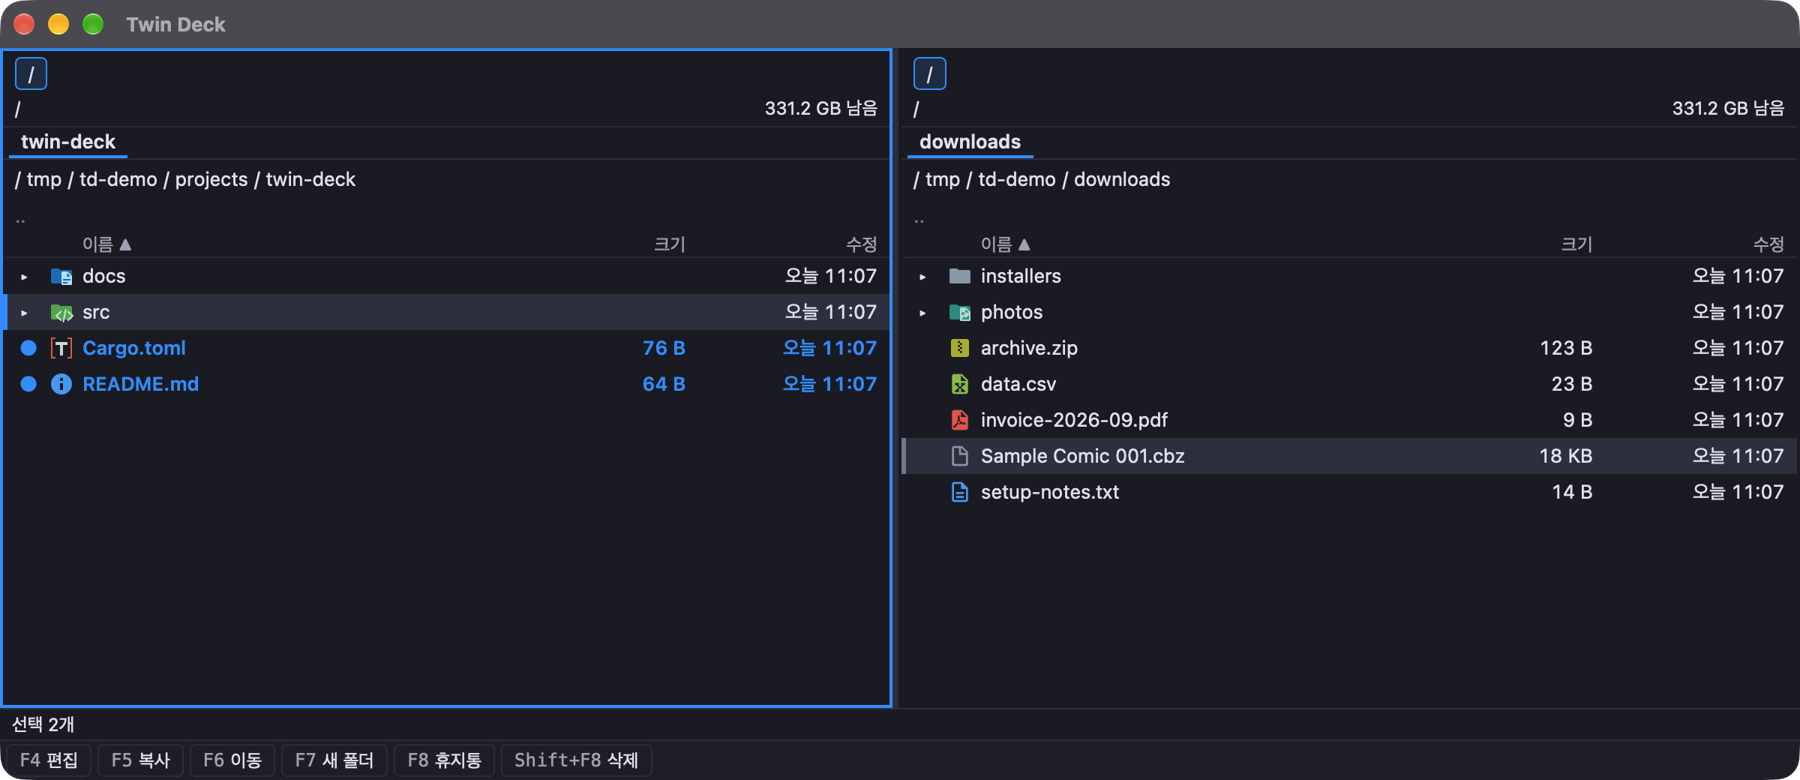
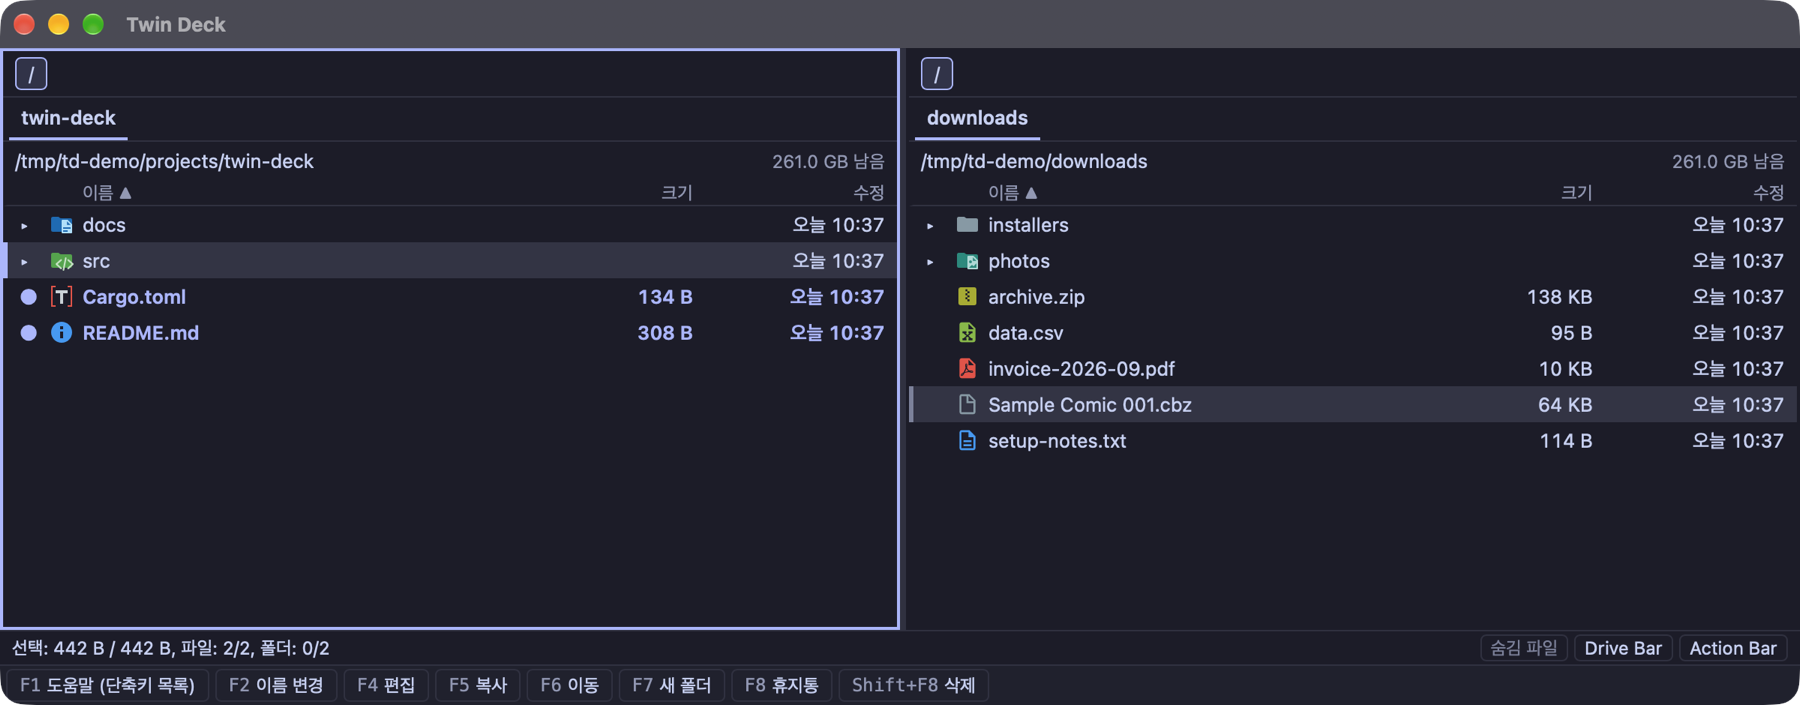
README를 사용자 관점으로 고치고 스크린샷을 새로 찍는다. 배포 내용은 deploy.md로 옮긴다
설치(Homebrew·직접 내려받기·Windows·업데이트), 처음 시작하기, 기능별 사용법 순서로 다시 쓰고
내부 용어를 화면에 보이는 말로 바꿨다. 0.6.0 내용(테마 112개, 탭 가운데 클릭 닫기, q로 나가기,
Office 미리보기 기본 꺼짐)과 Windows 설치 파일을 반영했다.

스크린샷은 main·preview-code·preview-cbz를 새로 찍어 바꾸고 treemap·find·settings·theme-light·
theme-dracula를 더했다. drag-copy는 마우스 입력이 웹뷰에 전달되지 않아 옛 이미지 그대로다.

앱 안 업데이트와 서명 키, 배포 순서와 명령은 deploy.md에 옮겼다. 소스에서 빌드는 Intel Mac과
Linux 사용자의 유일한 설치 경로라 README에 남겼다.

diff --git a/deploy.md b/deploy.md
@@ -1,0 +1,36 @@
+# 배포
+
+Twin Deck의 새 버전을 만들어 GitHub 릴리스에 올리는 방법입니다. 앱을 만드는 사람을 위한 문서이고, 사용하는 사람은 [README](README.md)만 보면 됩니다.
+
+배포 파일은 OS마다 그 OS에서 만듭니다(macOS는 macOS에서, Windows는 Windows에서). 두 OS의 파일을 한 비공개 초안에 모은 뒤, 둘 다 있을 때 공개합니다. 공개하면 태그가 만들어지고 Homebrew tap도 새 버전으로 바뀝니다.
+
+## 배포 순서
+
+1. 버전을 정하고 `CHANGELOG.md`에 그 버전의 항목을 씁니다. 같은 커밋에서 `apps/desktop/src-tauri/tauri.conf.json`과 `apps/desktop/src-tauri/Cargo.toml`(와 `Cargo.lock`)의 `version`을 올리고 push합니다. 변경 사항을 쓰는 방법은 [AGENTS.md](AGENTS.md)의 "릴리스 노트(변경 사항 기록)"에 있습니다.
+2. 각 OS에서 `task release:draft`를 실행합니다. 번들을 만들어 비공개 초안 릴리스에 올립니다. 공개하지 않고 태그도 만들지 않습니다.
+3. 초안에 macOS용과 Windows용 파일이 모두 올라온 뒤 `task release`를 실행합니다. 초안을 공개하고(태그 생성) Homebrew tap의 Cask를 새 버전으로 갱신합니다. 한쪽 OS 파일만 있으면 공개하지 않고 멈춥니다.
+
+```
+CHANGELOG 쓰기 + 버전 올리기 → push → 각 OS에서 task release:draft → task release → 공개 + tap 갱신
+                                                        ↓ macOS·Windows 파일 중 하나라도 없으면
+                                                   공개하지 않고 종료 (코드 3)
+```
+
+공개는 되돌릴 수 없습니다. 공개 흐름의 전체 단계와 실패했을 때 다시 하는 방법은 [AGENTS.md](AGENTS.md)의 "릴리스 공개 흐름"에 있습니다.
+
+## 명령
+
+```sh
+task release:draft  # 드래프트 배포: 이 OS의 파일을 비공개 초안에 올린다(공개·태그 없음. gh 로그인 필요)
+task release        # 배포: 이 OS의 파일을 올리고 공개한다(macOS·Windows 파일이 모두 있을 때만, 태그가 만들어진다)
+```
+
+## 앱 안 업데이트와 서명 키
+
+앱의 "업데이트 확인"(설정 화면 위쪽 버튼, 또는 `Mod+Shift+P`로 연 액션 패널에서 "업데이트")은 GitHub 최신 릴리스의 `latest.json`을 읽어 새 버전이면 설치합니다. 자동으로 확인하지는 않습니다.
+
+- 업데이트 파일은 서명 키로 서명합니다. 키는 한 번 만들어 두세요: `bunx tauri signer generate -w ~/.tauri/twin-deck.key`. 출력되는 **공개 키**는 `apps/desktop/src-tauri/tauri.conf.json`의 `plugins.updater.pubkey`에 들어 있습니다(키를 새로 만들면 이 값도 바꿔야 합니다). **비밀 키와 비밀번호는 저장소에 넣지 마세요.** 비밀 키를 잃으면 이미 설치된 앱은 새 업데이트를 받지 못합니다.
+- 배포 전에 `CHANGELOG.md`에 그 버전의 변경 사항을 적어야 합니다(없으면 `task release:draft`·`task release`가 빌드 전에 멈춥니다). 적은 내용은 GitHub 릴리스 본문과 앱의 "업데이트 확인" 창에 그대로 나옵니다.
+- `task release`로 공개하면 자체 Homebrew tap([gyuha/homebrew-tap](https://github.com/gyuha/homebrew-tap))의 Cask도 새 버전으로 갱신됩니다(`scripts/update-tap.mjs`가 공개 ZIP의 sha256을 GitHub 값과 대조한 뒤 push). 공개는 됐는데 tap 갱신만 실패했다면 `node scripts/update-tap.mjs <버전>`으로 다시 실행하세요(이미 반영돼 있으면 아무것도 바꾸지 않습니다). 흐름은 AGENTS.md의 "릴리스 공개 흐름"에 있습니다.
+- `task release:draft` / `task release`는 `TAURI_SIGNING_PRIVATE_KEY` 환경변수(키 파일 경로 또는 내용. 비밀번호가 있으면 `TAURI_SIGNING_PRIVATE_KEY_PASSWORD`)의 키로 업데이트용 파일과 `.sig`를 만들어 함께 올리고, 올라온 `latest.json`에 이 OS의 항목을 합칩니다. 평소의 `task bundle`·`task install`은 키 없이 됩니다.
+- 한쪽 OS 파일만 올라간 버전은 `latest.json`에 그 OS 항목이 없어서, 그 OS의 앱은 그 버전을 업데이트로 받지 않습니다.
